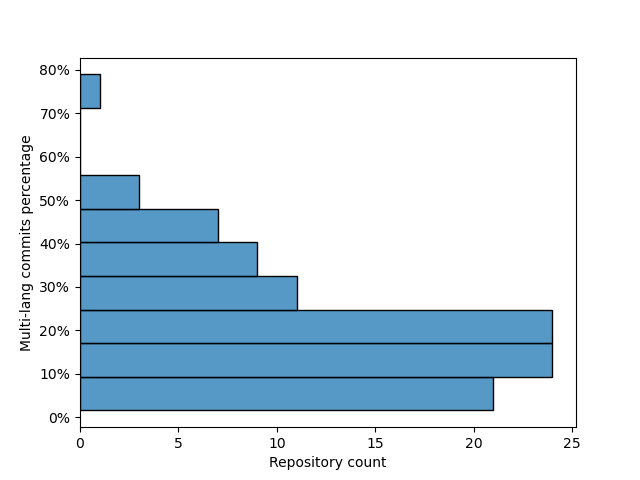
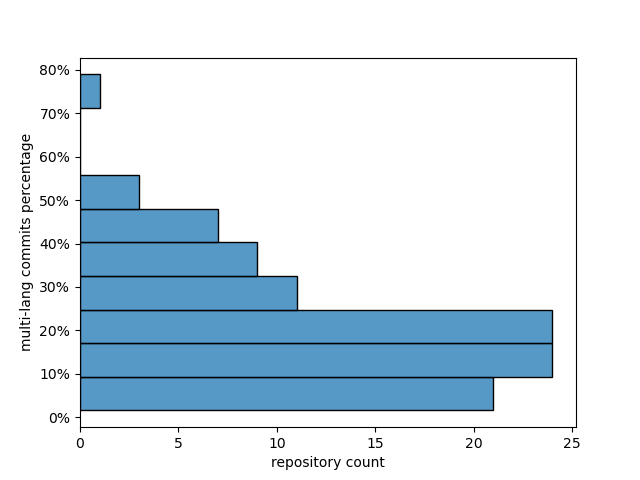
multi-lang-percentage plot

Changed region(s): [[0.0312, 0.2812, 0.0625, 0.75], [0.4062, 0.9375, 0.625, 1.0]]

diff --git a/plot_gen/code/repo_multilang_percent_plot.py b/plot_gen/code/repo_multilang_percent_plot.py
@@ -109,7 +109,7 @@ def drawPlot():
     plot = sns.histplot(data=data, y="percentage")
     ylabels = ['{:,.0f}'.format(x) + '%' for x in plot.get_yticks()]
     plot.set_yticklabels(ylabels)
-    plot.set(xlabel="Repository count", ylabel="Multi-lang commits percentage")
+    plot.set(xlabel="repository count", ylabel="multi-lang commits percentage")
     fig = plot.get_figure()
     fig.savefig(os.path.join(plot_dir, "multi-lang-percent.png"))
 
